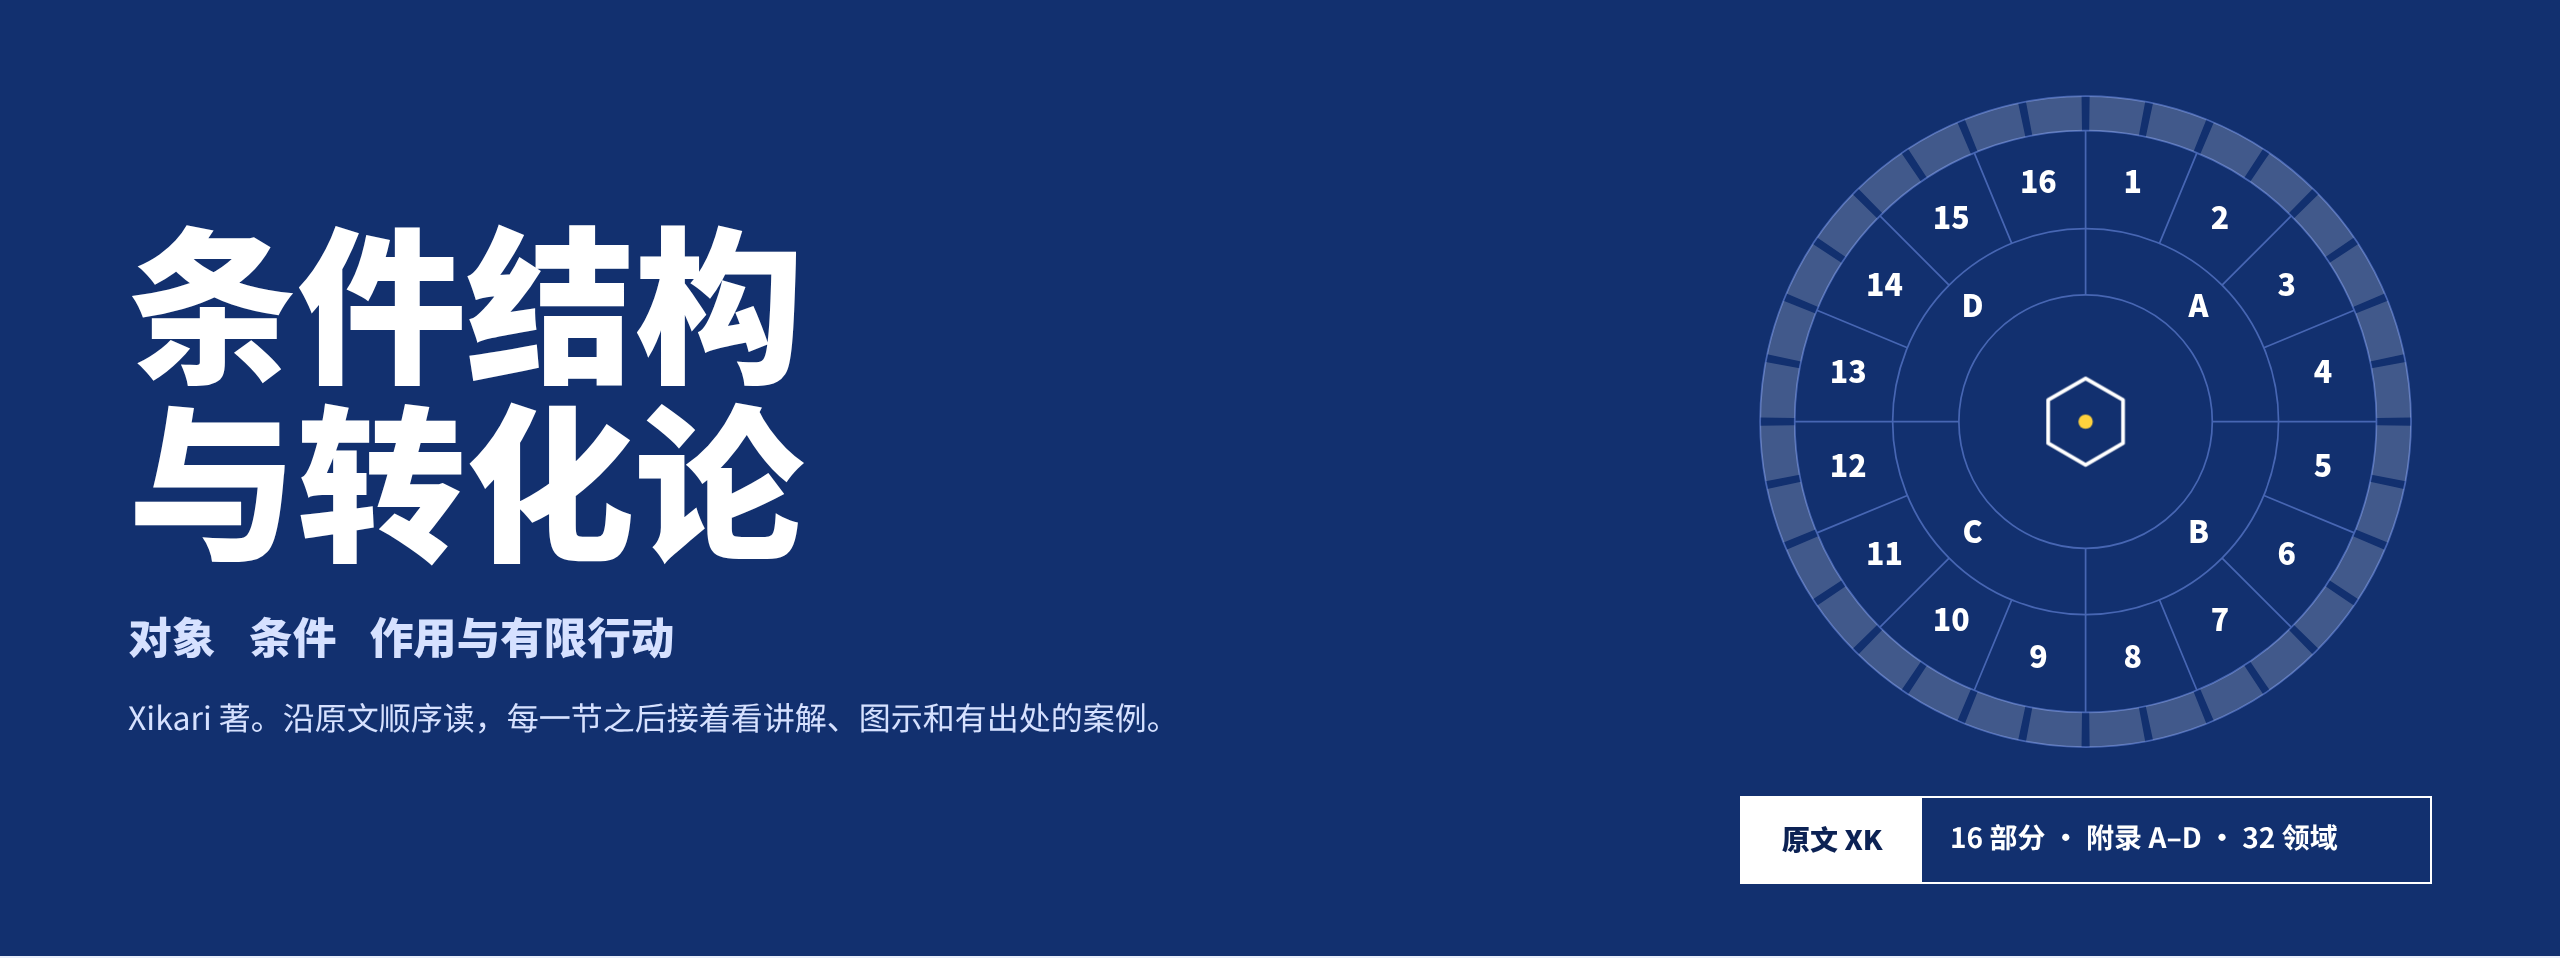
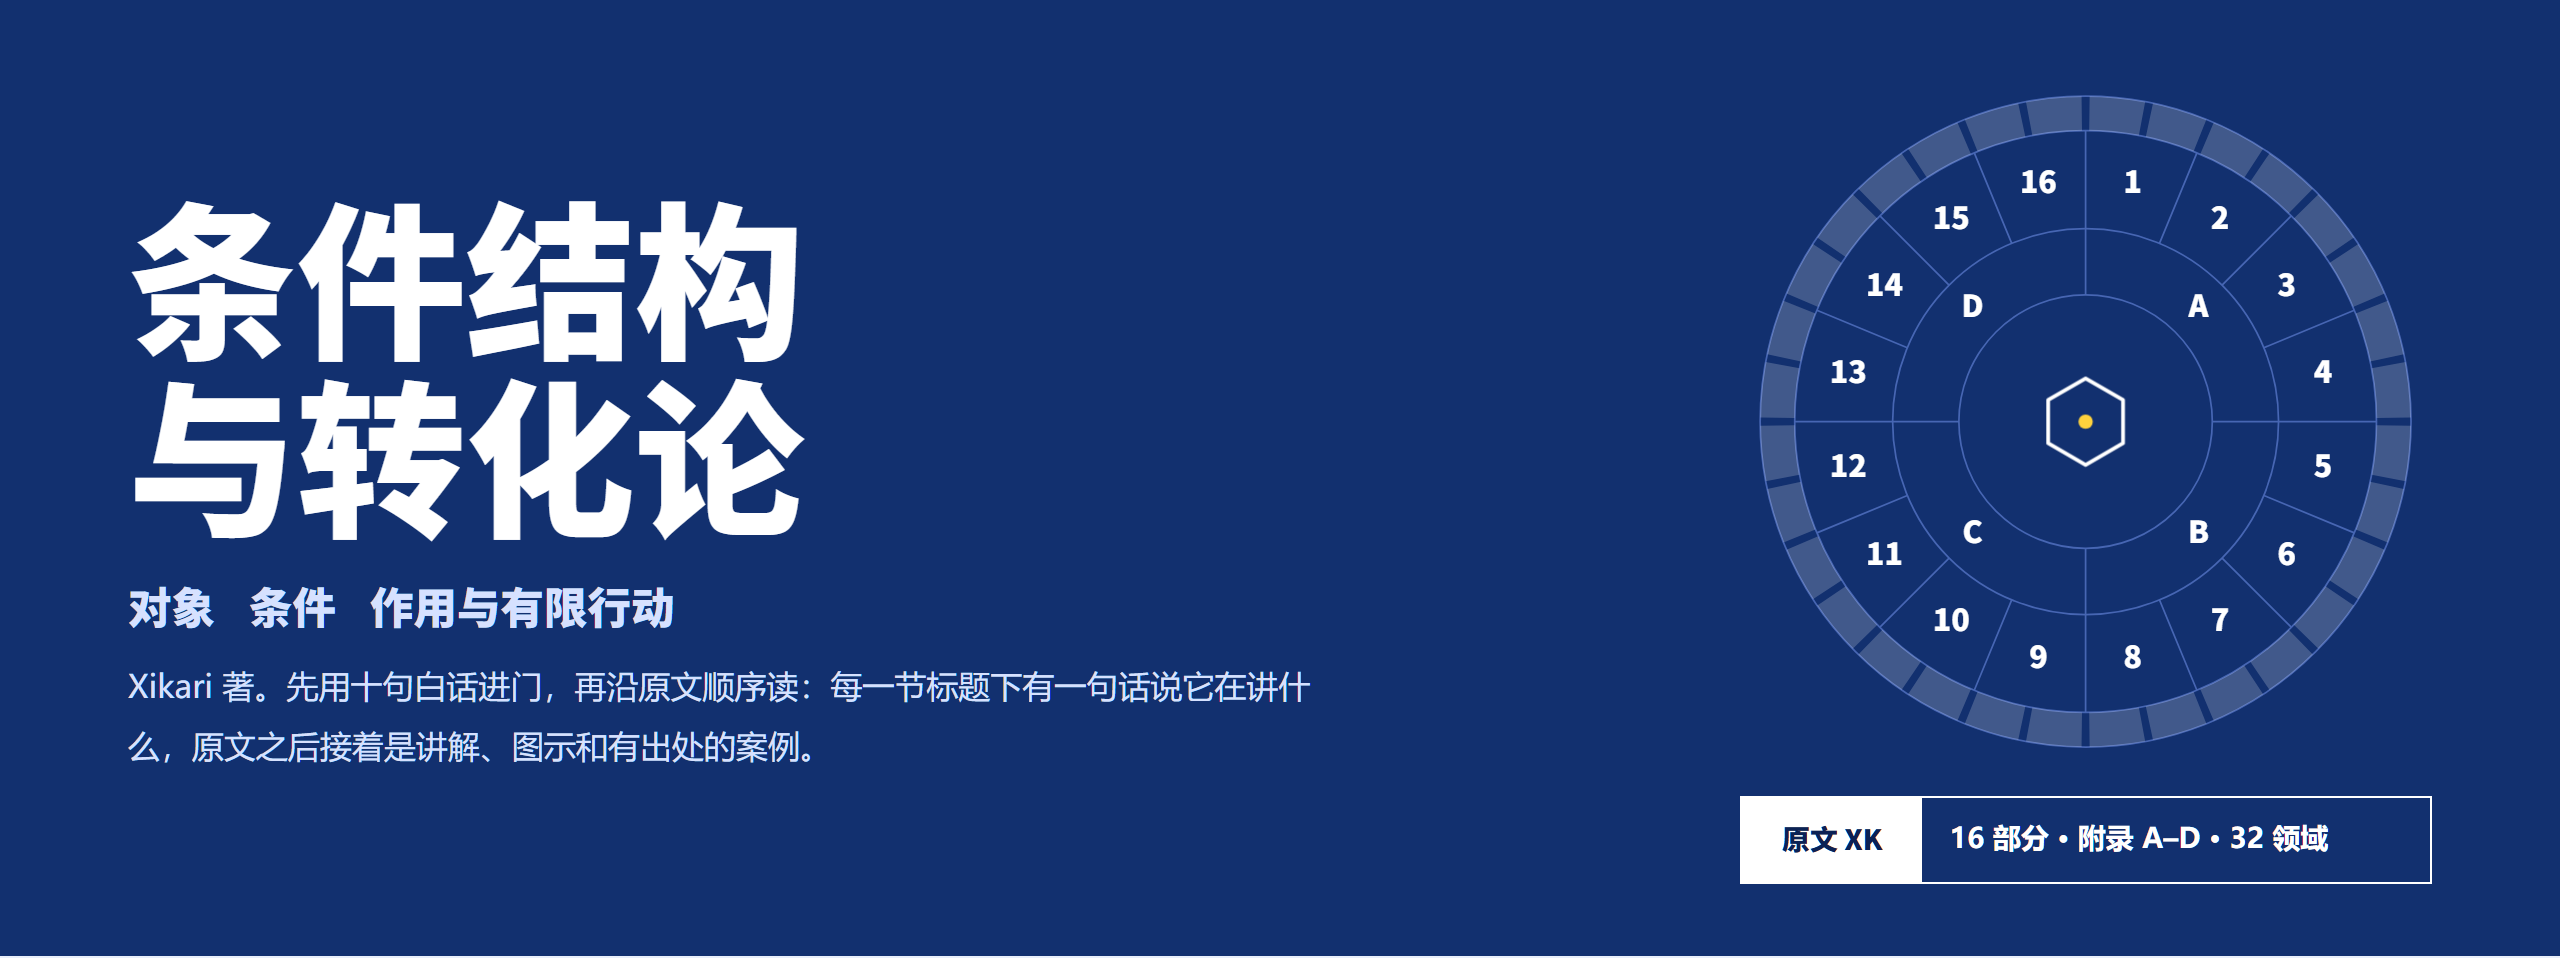
Lead the READMEs and the project page to the ten-sentence primer
Both READMEs list the ten sentences before the start table and link to the primer. The project page names the primer first among its reading entries. The Chinese handbook figure is retaken because the station line changed.

Changed region(s): [[0.0312, 0.2119, 0.5312, 0.8173], [0.75, 0.8476, 0.9062, 0.9081], [0.6875, 0.8476, 0.7188, 0.8779]]

diff --git a/docs/index.html b/docs/index.html
@@ -352,7 +352,8 @@
       </blockquote>
       <p>原文优先于技能的工程指引，也优先于模型对同名术语的既有理解。全书十六个主部分、四个附录，附录 D 给出 32 个领域的解释与应用图谱。技能与双语阅读站均以 v2 为正文基准；中英文各 65 个阅读页面，共用 397 个编号小节。</p>
       <ul class="reading">
-        <li><a href="handbook/">中文精读站</a><span>沿原文顺序阅读。421 个阅读单元均有讲解入口，原文、解释、教学情景和真实案例分开呈现。</span></li>
+        <li><a href="handbook/primer/">十句话入门</a><span>用十句白话讲这本书在防什么，每句配一个例子和它概括的原文小节。第一次来，从这里读起。</span></li>
+        <li><a href="handbook/">中文精读站</a><span>沿原文顺序阅读。每一节标题下先有一句白话，说这一节在讲什么；421 个阅读单元均有讲解入口，原文、解释、教学情景和真实案例分开呈现。</span></li>
         <li><a href="handbook/en/" lang="en">Read in English</a><span>完整英文参考正文与全部 421 个网页讲解单元的译文，配有英文导航、搜索、概念与案例；可切换中文对照。</span></li>
         <li><a href="handbook/concepts/">概念例解</a><span>从一个问题进入一项区别，例如“收到意见，就算形成反馈了吗？”</span></li>
         <li><a href="handbook/cases/">真实案例</a><span>火星气候轨道器的单位接口，丰田安灯的响应流程。</span></li>

diff --git a/README.md b/README.md
@@ -32,6 +32,23 @@
 
 中英文都可以使用：用英文提问，成果就以英文写成。理论权威仍是中文原文；安装包另附作者提供、与原文逐节对齐的英文参考译本和中英术语表，用于英文术语与引文（见[英文工作](references/english.md)）。技能与[双语阅读站](https://xi-kari.github.io/xi-kari-skill/handbook/)均以 v2 为正文基准；[英文站](https://xi-kari.github.io/xi-kari-skill/handbook/en/)可以连续阅读全书。
 
+## 这套理论在防什么
+
+理论很长，核心可以用十句白话说完。它们防的是同一类毛病：手里的依据只够说到这里，嘴上却说到了那里。
+
+1. 先说清在谈什么：对象、问题、时间段、手头的材料。
+2. 同一个词、同一个数，先核对是不是同一回事。
+3. 一步成立，不等于下一步也成立：能解释不等于能预判，能预判不等于应该做，应该做不等于有权做。
+4. 两段各自成立，不等于能连起来。
+5. 概括的说法够不够用，看你问的是什么。
+6. 历史重要，但先看它是不是已经写进了现状。
+7. 有回音不等于有反馈，有反馈不等于学会了，学会了不等于修好了。
+8. 没看见不等于没有。
+9. 预判要先写下来，再看结果，还要比得过最笨的猜法。
+10. 事实推不出“应该”；依据够下结论的地方，就明确下结论。
+
+每句的例子和对应的原文小节见[十句话入门](https://xi-kari.github.io/xi-kari-skill/handbook/primer/)。技能做的事，是让智能体带着完整的原文，把这些区分落到你的具体问题上。
+
 ## 从这里开始
 
 | 你想做的事 | 从这里进入 |
@@ -39,7 +56,7 @@
 | 装好，问出第一个问题 | [快速开始](#快速开始) · [安装指南](docs/INSTALL.md) |
 | 看它怎样处理不同类型的问题 | [按问题组织模块](#按问题组织模块) · [项目主页](https://xi-kari.github.io/xi-kari-skill/) |
 | 做一项完整研究，或把理论接到具体领域 | [研究与领域工作](#研究与领域工作) · [调用方式](references/capability-quickstart.md) |
-| 先读懂理论本身 | [原文精读站](https://xi-kari.github.io/xi-kari-skill/handbook/) · [概念例解](https://xi-kari.github.io/xi-kari-skill/handbook/concepts/) · [真实案例](https://xi-kari.github.io/xi-kari-skill/handbook/cases/) |
+| 先读懂理论本身 | [十句话入门](https://xi-kari.github.io/xi-kari-skill/handbook/primer/) · [原文精读站](https://xi-kari.github.io/xi-kari-skill/handbook/) · [概念例解](https://xi-kari.github.io/xi-kari-skill/handbook/concepts/) · [真实案例](https://xi-kari.github.io/xi-kari-skill/handbook/cases/) |
 | 知道它交付什么、带哪些工具 | [交付什么](#交付什么) · [随包工具](#随包工具) |
 | 弄清它不声称什么、不做什么 | [条件前瞻与能力边界](#条件前瞻与能力边界) · [边界](#边界) |
 | 用英文工作或读书 | [English README](README.en.md) · [英文阅读站](https://xi-kari.github.io/xi-kari-skill/handbook/en/) · [英文工作](references/english.md) |
@@ -228,7 +245,7 @@ python "$skillRoot/scripts/domain_cards.py" --library "$taskRoot/领域卡" list
 <p><a href="https://xi-kari.github.io/xi-kari-skill/handbook/">
   <picture>
     <source media="(prefers-color-scheme: dark)" srcset=".github/readme/handbook-dark.png">
-    <img alt="原文精读站首页：《Xikari-条件结构与转化论》，Xikari 著。沿原文顺序读，每一节之后接着看讲解、图示和有出处的案例。全书画成一枚罗盘：中圈是第 1—16 部分，内圈是附录 A—D，外沿是附录 D 的 32 个领域。" src=".github/readme/handbook-light.png" width="100%">
+    <img alt="原文精读站首页：《Xikari-条件结构与转化论》，Xikari 著。先用十句白话进门，再沿原文顺序读：每一节标题下有一句话说它在讲什么，原文之后接着是讲解、图示和有出处的案例。全书画成一枚罗盘：中圈是第 1—16 部分，内圈是附录 A—D，外沿是附录 D 的 32 个领域。" src=".github/readme/handbook-light.png" width="100%">
   </picture>
 </a></p>
 

diff --git a/README.en.md b/README.en.md
@@ -32,6 +32,23 @@ For a full investigation or work in a particular field, see [Research and domain
 
 The skill works in English and Chinese. Ask in English and the whole answer is in English. The theory's authoritative text is Chinese; the package also carries the author's aligned English reference edition and a Chinese–English glossary, used for English terminology and quotations (see [Working in English](references/english.md)). Both the skill and the [bilingual reading site](https://xi-kari.github.io/xi-kari-skill/handbook/en/) use v2, with the full text available in English.
 
+## What the theory guards against
+
+The theory is long. Its core fits in ten plain sentences, all aimed at one kind of mistake: your grounds carry you this far, and your words go further.
+
+1. Say first what you are talking about: the object, the question, the period, the material in hand.
+2. Same word, same number: check that they mean the same thing.
+3. One step holding does not make the next step hold. Explaining is not forecasting, forecasting is not deciding what should be done, and that is not being entitled to do it.
+4. Two links that each hold may still not connect.
+5. Whether a summary is enough depends on what you are asking.
+6. History matters, but first check whether it is already written into the present.
+7. A reply is not feedback, feedback is not learning, and learning is not repair.
+8. Not seen is not the same as not there.
+9. Write a forecast down first, then look at the outcome; it also has to beat the dullest guess.
+10. Facts alone do not yield “ought”; where the grounds are enough, state the conclusion plainly.
+
+[Ten sentences to start with](https://xi-kari.github.io/xi-kari-skill/handbook/en/primer/) gives an example for each and the sections of the source it summarizes. The skill's job is to have an agent apply these distinctions to your actual question with the complete text in hand.
+
 ## Start here
 
 | You want to | Go to |
@@ -39,7 +56,7 @@ The skill works in English and Chinese. Ask in English and the whole answer is i
 | Install it and ask a first question | [Quick start](#quick-start) · [Installation guide](docs/INSTALL.md) (in Chinese) |
 | See how it handles different kinds of question | [Modules organized by question](#modules-organized-by-question) · [Project page](https://xi-kari.github.io/xi-kari-skill/) (in Chinese) |
 | Carry out a full investigation, or bring the theory into a particular field | [Research and domain work](#research-and-domain-work) · [How to ask](references/capability-quickstart.md) (in Chinese) |
-| Read the theory itself | [English reading site](https://xi-kari.github.io/xi-kari-skill/handbook/en/) · [Reference manuscript](source/en/Xikari-On-Conditions-Structure-and-Transformation.md) · [Chinese site](https://xi-kari.github.io/xi-kari-skill/handbook/) |
+| Read the theory itself | [Ten sentences](https://xi-kari.github.io/xi-kari-skill/handbook/en/primer/) · [English reading site](https://xi-kari.github.io/xi-kari-skill/handbook/en/) · [Reference manuscript](source/en/Xikari-On-Conditions-Structure-and-Transformation.md) · [Chinese site](https://xi-kari.github.io/xi-kari-skill/handbook/) |
 | Know what it delivers and which tools come with it | [What you get](#what-you-get) · [Bundled tools](#bundled-tools) |
 | Know what it does not claim and does not do | [Conditional foresight and its limits](#conditional-foresight-and-its-limits) · [Boundaries](#boundaries) |
 | Work in English | [Working in English](references/english.md) · [Glossary](references/glossary-en.md) |
